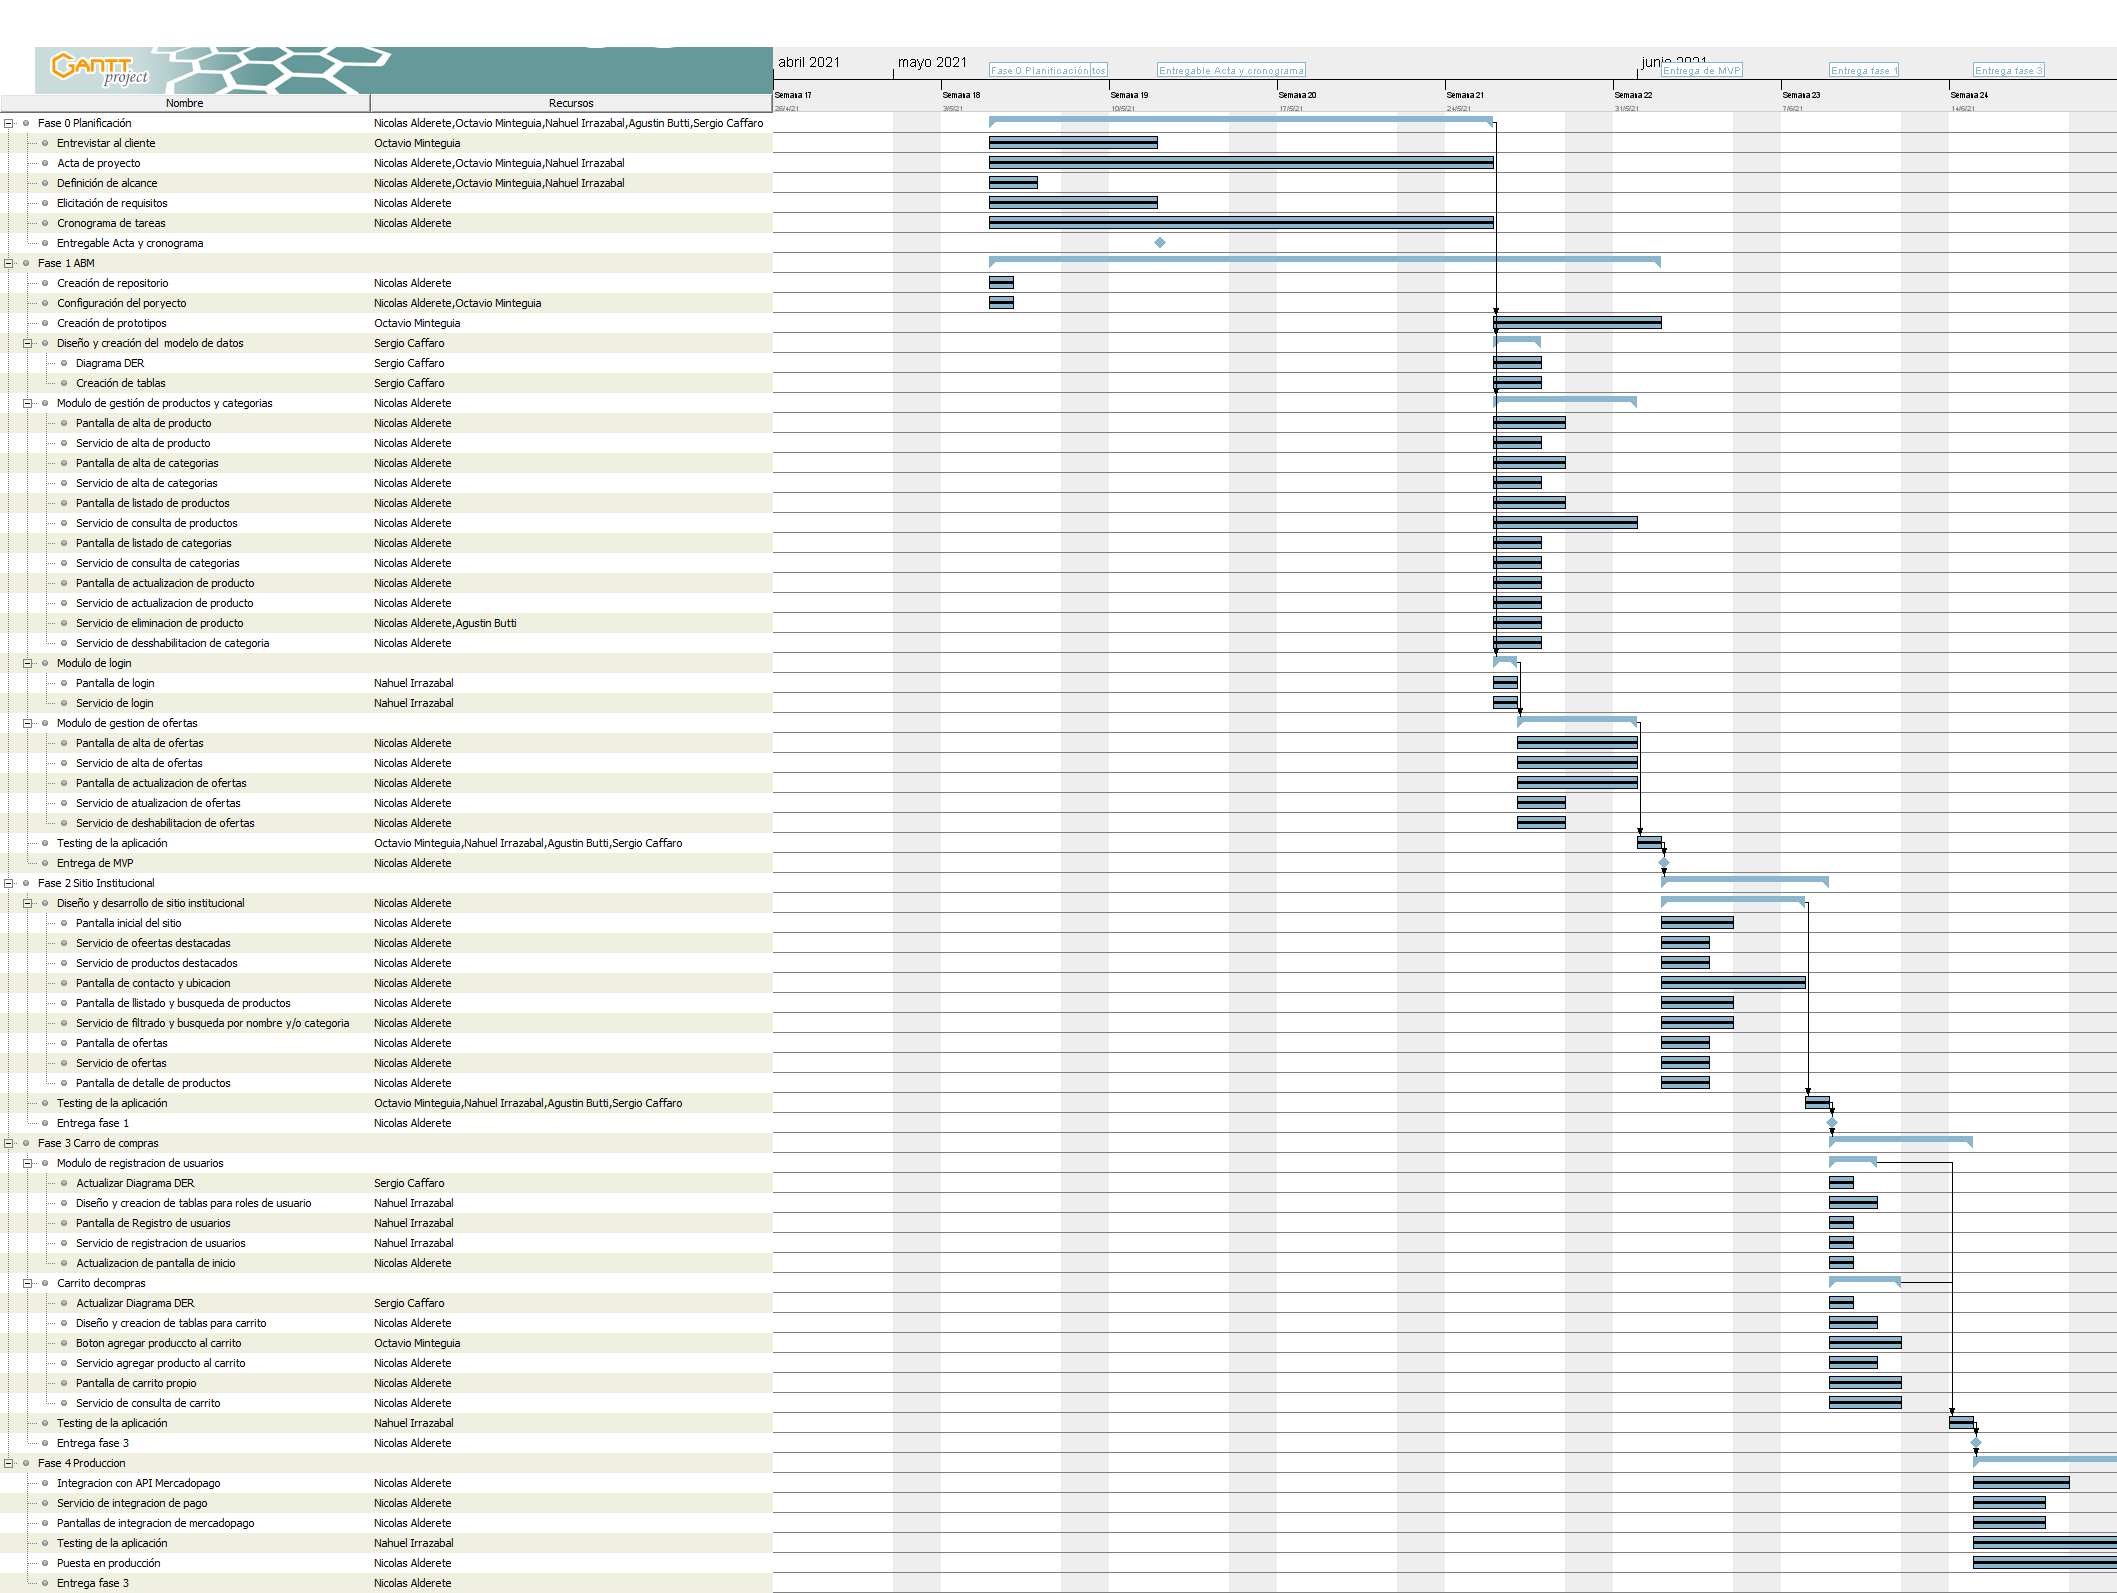
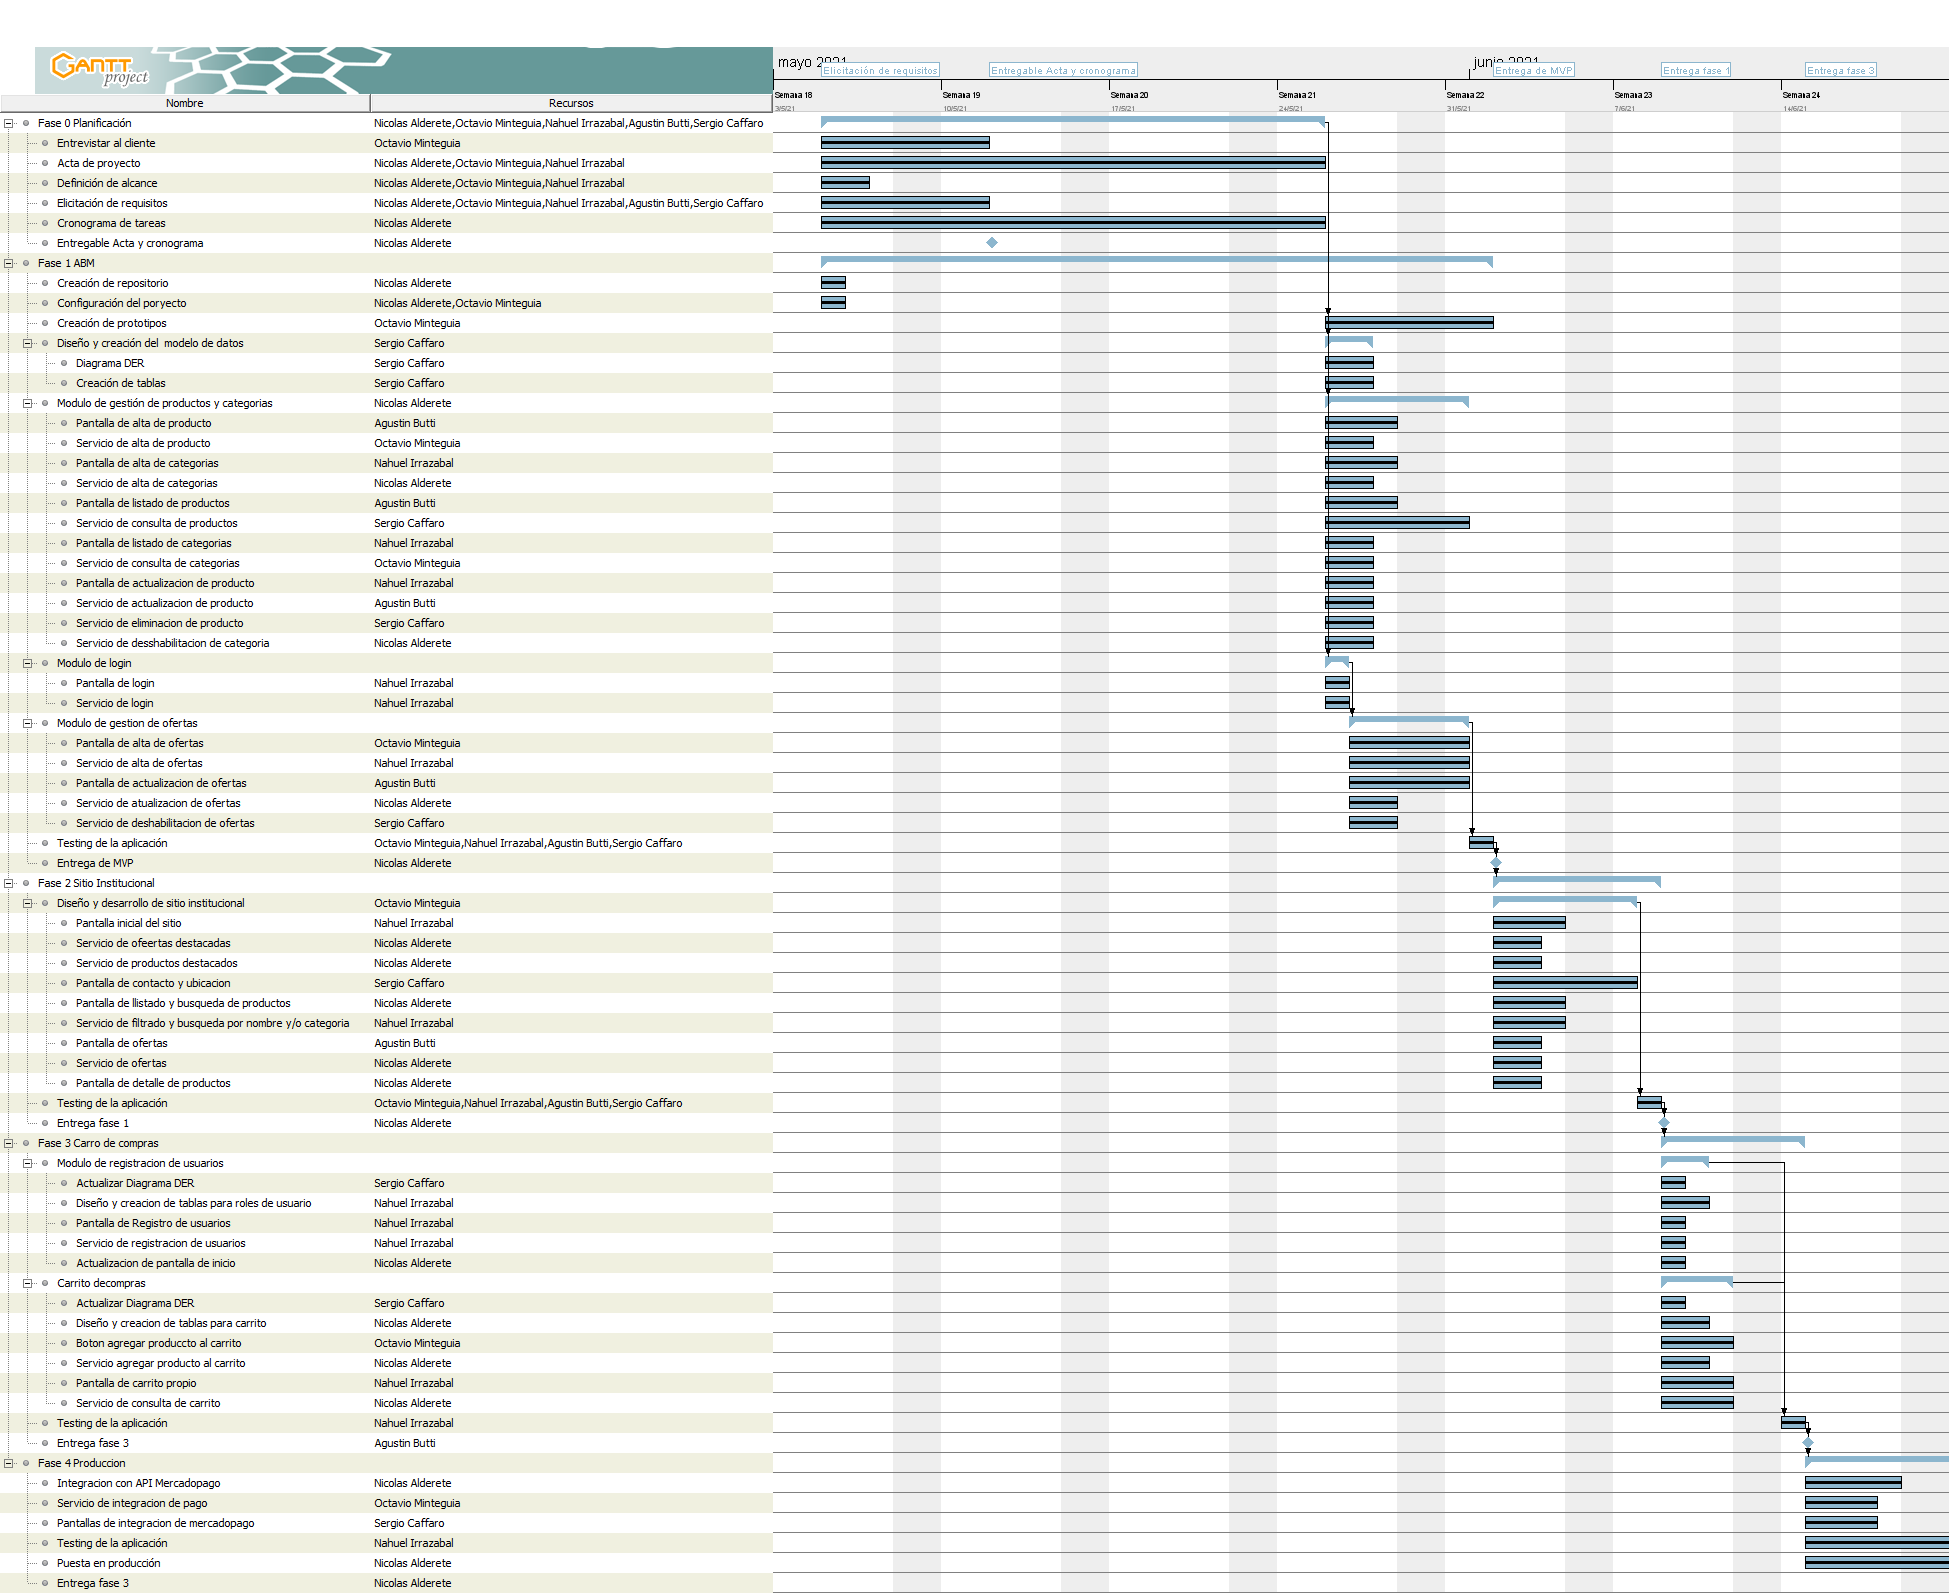
actualizo gantt

diff --git a/project/ProyectoDietetica-tasks.html b/project/ProyectoDietetica-tasks.html
@@ -192,7 +192,7 @@ h5.header {
                         </div>
                     </td><td valign="top" class="cell">
                         <div style="margin:0; padding:0; padding-left:0.5em"></div>
-                    </td><td valign="top" class="cell">Nicolas Alderete</td>
+                    </td><td valign="top" class="cell">Nicolas Alderete, Octavio Minteguia, Nahuel Irrazabal, Agustin Butti, Sergio Caffaro</td>
                 </tr>
                 <tr>
                     <td valign="top" class="cell">
@@ -210,7 +210,7 @@ h5.header {
                         </div>
                     </td><td valign="top" class="cell">
                         <div style="margin:0; padding:0; padding-left:0.5em"></div>
-                    </td><td valign="top" class="cell"></td>
+                    </td><td valign="top" class="cell">Nicolas Alderete</td>
                 </tr>
                 <tr>
                     <td valign="top" class="cell">
@@ -291,7 +291,7 @@ h5.header {
                         </div>
                     </td><td valign="top" class="cell">
                         <div style="margin:0; padding:0; padding-left:0.5em"></div>
-                    </td><td valign="top" class="cell">Nicolas Alderete</td>
+                    </td><td valign="top" class="cell">Agustin Butti</td>
                 </tr>
                 <tr>
                     <td valign="top" class="cell">
@@ -300,7 +300,7 @@ h5.header {
                         </div>
                     </td><td valign="top" class="cell">
                         <div style="margin:0; padding:0; padding-left:0.5em"></div>
-                    </td><td valign="top" class="cell">Nicolas Alderete</td>
+                    </td><td valign="top" class="cell">Octavio Minteguia</td>
                 </tr>
                 <tr>
                     <td valign="top" class="cell">
@@ -309,7 +309,7 @@ h5.header {
                         </div>
                     </td><td valign="top" class="cell">
                         <div style="margin:0; padding:0; padding-left:0.5em"></div>
-                    </td><td valign="top" class="cell">Nicolas Alderete</td>
+                    </td><td valign="top" class="cell">Nahuel Irrazabal</td>
                 </tr>
                 <tr>
                     <td valign="top" class="cell">
@@ -327,7 +327,7 @@ h5.header {
                         </div>
                     </td><td valign="top" class="cell">
                         <div style="margin:0; padding:0; padding-left:0.5em"></div>
-                    </td><td valign="top" class="cell">Nicolas Alderete</td>
+                    </td><td valign="top" class="cell">Agustin Butti</td>
                 </tr>
                 <tr>
                     <td valign="top" class="cell">
@@ -336,7 +336,7 @@ h5.header {
                         </div>
                     </td><td valign="top" class="cell">
                         <div style="margin:0; padding:0; padding-left:0.5em"></div>
-                    </td><td valign="top" class="cell">Nicolas Alderete</td>
+                    </td><td valign="top" class="cell">Sergio Caffaro</td>
                 </tr>
                 <tr>
                     <td valign="top" class="cell">
@@ -345,7 +345,7 @@ h5.header {
                         </div>
                     </td><td valign="top" class="cell">
                         <div style="margin:0; padding:0; padding-left:0.5em"></div>
-                    </td><td valign="top" class="cell">Nicolas Alderete</td>
+                    </td><td valign="top" class="cell">Nahuel Irrazabal</td>
                 </tr>
                 <tr>
                     <td valign="top" class="cell">
@@ -354,7 +354,7 @@ h5.header {
                         </div>
                     </td><td valign="top" class="cell">
                         <div style="margin:0; padding:0; padding-left:0.5em"></div>
-                    </td><td valign="top" class="cell">Nicolas Alderete</td>
+                    </td><td valign="top" class="cell">Octavio Minteguia</td>
                 </tr>
                 <tr>
                     <td valign="top" class="cell">
@@ -363,7 +363,7 @@ h5.header {
                         </div>
                     </td><td valign="top" class="cell">
                         <div style="margin:0; padding:0; padding-left:0.5em"></div>
-                    </td><td valign="top" class="cell">Nicolas Alderete</td>
+                    </td><td valign="top" class="cell">Nahuel Irrazabal</td>
                 </tr>
                 <tr>
                     <td valign="top" class="cell">
@@ -372,7 +372,7 @@ h5.header {
                         </div>
                     </td><td valign="top" class="cell">
                         <div style="margin:0; padding:0; padding-left:0.5em"></div>
-                    </td><td valign="top" class="cell">Nicolas Alderete</td>
+                    </td><td valign="top" class="cell">Agustin Butti</td>
                 </tr>
                 <tr>
                     <td valign="top" class="cell">
@@ -381,7 +381,7 @@ h5.header {
                         </div>
                     </td><td valign="top" class="cell">
                         <div style="margin:0; padding:0; padding-left:0.5em"></div>
-                    </td><td valign="top" class="cell">Nicolas Alderete, Agustin Butti</td>
+                    </td><td valign="top" class="cell">Sergio Caffaro</td>
                 </tr>
                 <tr>
                     <td valign="top" class="cell">
@@ -435,7 +435,7 @@ h5.header {
                         </div>
                     </td><td valign="top" class="cell">
                         <div style="margin:0; padding:0; padding-left:0.5em"></div>
-                    </td><td valign="top" class="cell">Nicolas Alderete</td>
+                    </td><td valign="top" class="cell">Octavio Minteguia</td>
                 </tr>
                 <tr>
                     <td valign="top" class="cell">
@@ -444,7 +444,7 @@ h5.header {
                         </div>
                     </td><td valign="top" class="cell">
                         <div style="margin:0; padding:0; padding-left:0.5em"></div>
-                    </td><td valign="top" class="cell">Nicolas Alderete</td>
+                    </td><td valign="top" class="cell">Nahuel Irrazabal</td>
                 </tr>
                 <tr>
                     <td valign="top" class="cell">
@@ -453,7 +453,7 @@ h5.header {
                         </div>
                     </td><td valign="top" class="cell">
                         <div style="margin:0; padding:0; padding-left:0.5em"></div>
-                    </td><td valign="top" class="cell">Nicolas Alderete</td>
+                    </td><td valign="top" class="cell">Agustin Butti</td>
                 </tr>
                 <tr>
                     <td valign="top" class="cell">
@@ -471,7 +471,7 @@ h5.header {
                         </div>
                     </td><td valign="top" class="cell">
                         <div style="margin:0; padding:0; padding-left:0.5em"></div>
-                    </td><td valign="top" class="cell">Nicolas Alderete</td>
+                    </td><td valign="top" class="cell">Sergio Caffaro</td>
                 </tr>
                 <tr>
                     <td valign="top" class="cell">
@@ -507,7 +507,7 @@ h5.header {
                         </div>
                     </td><td valign="top" class="cell">
                         <div style="margin:0; padding:0; padding-left:0.5em"></div>
-                    </td><td valign="top" class="cell">Nicolas Alderete</td>
+                    </td><td valign="top" class="cell">Octavio Minteguia</td>
                 </tr>
                 <tr>
                     <td valign="top" class="cell">
@@ -516,7 +516,7 @@ h5.header {
                         </div>
                     </td><td valign="top" class="cell">
                         <div style="margin:0; padding:0; padding-left:0.5em"></div>
-                    </td><td valign="top" class="cell">Nicolas Alderete</td>
+                    </td><td valign="top" class="cell">Nahuel Irrazabal</td>
                 </tr>
                 <tr>
                     <td valign="top" class="cell">
@@ -543,7 +543,7 @@ h5.header {
                         </div>
                     </td><td valign="top" class="cell">
                         <div style="margin:0; padding:0; padding-left:0.5em"></div>
-                    </td><td valign="top" class="cell">Nicolas Alderete</td>
+                    </td><td valign="top" class="cell">Sergio Caffaro</td>
                 </tr>
                 <tr>
                     <td valign="top" class="cell">
@@ -561,7 +561,7 @@ h5.header {
                         </div>
                     </td><td valign="top" class="cell">
                         <div style="margin:0; padding:0; padding-left:0.5em"></div>
-                    </td><td valign="top" class="cell">Nicolas Alderete</td>
+                    </td><td valign="top" class="cell">Nahuel Irrazabal</td>
                 </tr>
                 <tr>
                     <td valign="top" class="cell">
@@ -570,7 +570,7 @@ h5.header {
                         </div>
                     </td><td valign="top" class="cell">
                         <div style="margin:0; padding:0; padding-left:0.5em"></div>
-                    </td><td valign="top" class="cell">Nicolas Alderete</td>
+                    </td><td valign="top" class="cell">Agustin Butti</td>
                 </tr>
                 <tr>
                     <td valign="top" class="cell">
@@ -723,7 +723,7 @@ h5.header {
                         </div>
                     </td><td valign="top" class="cell">
                         <div style="margin:0; padding:0; padding-left:0.5em"></div>
-                    </td><td valign="top" class="cell">Nicolas Alderete</td>
+                    </td><td valign="top" class="cell">Nahuel Irrazabal</td>
                 </tr>
                 <tr>
                     <td valign="top" class="cell">
@@ -750,7 +750,7 @@ h5.header {
                         </div>
                     </td><td valign="top" class="cell">
                         <div style="margin:0; padding:0; padding-left:0.5em"></div>
-                    </td><td valign="top" class="cell">Nicolas Alderete</td>
+                    </td><td valign="top" class="cell">Agustin Butti</td>
                 </tr>
                 <tr>
                     <td valign="top" class="cell">
@@ -777,7 +777,7 @@ h5.header {
                         </div>
                     </td><td valign="top" class="cell">
                         <div style="margin:0; padding:0; padding-left:0.5em"></div>
-                    </td><td valign="top" class="cell">Nicolas Alderete</td>
+                    </td><td valign="top" class="cell">Octavio Minteguia</td>
                 </tr>
                 <tr>
                     <td valign="top" class="cell">
@@ -786,7 +786,7 @@ h5.header {
                         </div>
                     </td><td valign="top" class="cell">
                         <div style="margin:0; padding:0; padding-left:0.5em"></div>
-                    </td><td valign="top" class="cell">Nicolas Alderete</td>
+                    </td><td valign="top" class="cell">Sergio Caffaro</td>
                 </tr>
                 <tr>
                     <td valign="top" class="cell">
@@ -822,7 +822,7 @@ h5.header {
             <tr>
                 <td bgcolor="#6d9ec6" width="50%"><font color="#FFFFFF"><b>Ganttproject (3.0.3000)</b></font></td><td bgcolor="#6d9ec6" width="50%" align="right"><b><a href="http://ganttproject.biz">ganttproject.biz</a></b>
                     <br>
-                    <b>3/8/21 - 23:14:42</b></td>
+                    <b>7/8/21 - 8:58:50</b></td>
             </tr>
         </table>
     </body>

diff --git a/project/ProyectoDietetica-chart.html b/project/ProyectoDietetica-chart.html
@@ -123,7 +123,7 @@ div.page_links {
             <tr>
                 <td bgcolor="#6d9ec6" width="50%"><font color="#FFFFFF"><b>Ganttproject (3.0.3000)</b></font></td><td bgcolor="#6d9ec6" width="50%" align="right"><b><a href="http://ganttproject.biz">ganttproject.biz</a></b>
                     <br>
-                    <b>3/8/21 - 23:14:42</b></td>
+                    <b>7/8/21 - 8:58:51</b></td>
             </tr>
         </table>
     </body>

diff --git a/project/ProyectoDietetica.html b/project/ProyectoDietetica.html
@@ -152,7 +152,7 @@ div.page_links {
             <tr>
                 <td bgcolor="#6d9ec6" width="50%"><font color="#FFFFFF"><b>Ganttproject (3.0.3000)</b></font></td><td bgcolor="#6d9ec6" width="50%" align="right"><b><a href="http://ganttproject.biz">ganttproject.biz</a></b>
                     <br>
-                    <b>3/8/21 - 23:14:42</b></td>
+                    <b>7/8/21 - 8:58:50</b></td>
             </tr>
         </table>
     </body>

diff --git a/project/ProyectoDietetica-resources.html b/project/ProyectoDietetica-resources.html
@@ -173,7 +173,7 @@ h5.header {
             <tr>
                 <td bgcolor="#6d9ec6" width="50%"><font color="#FFFFFF"><b>Ganttproject (3.0.3000)</b></font></td><td bgcolor="#6d9ec6" width="50%" align="right"><b><a href="http://ganttproject.biz">ganttproject.biz</a></b>
                     <br>
-                    <b>3/8/21 - 23:14:42</b></td>
+                    <b>7/8/21 - 8:58:51</b></td>
             </tr>
         </table>
     </body>
